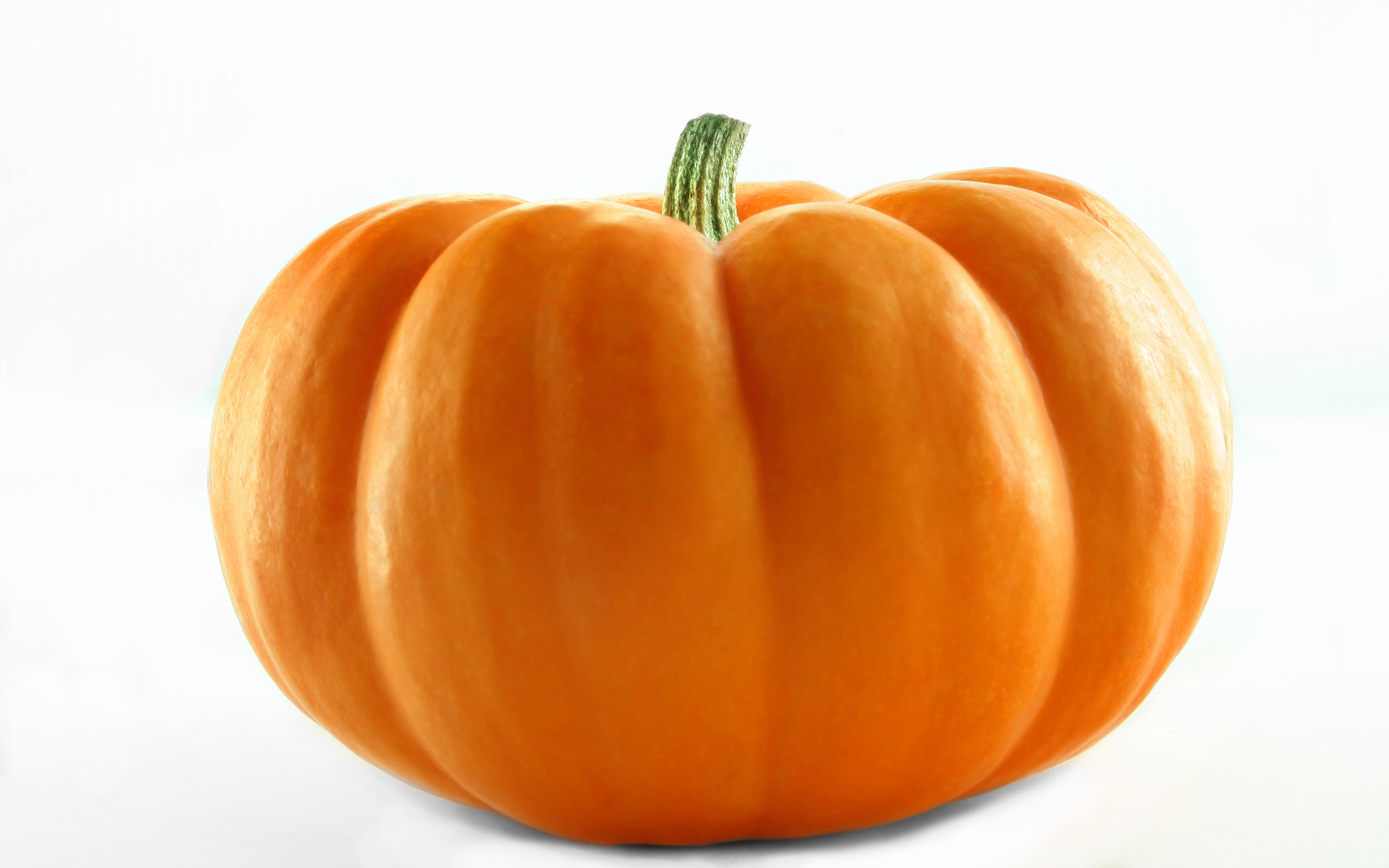
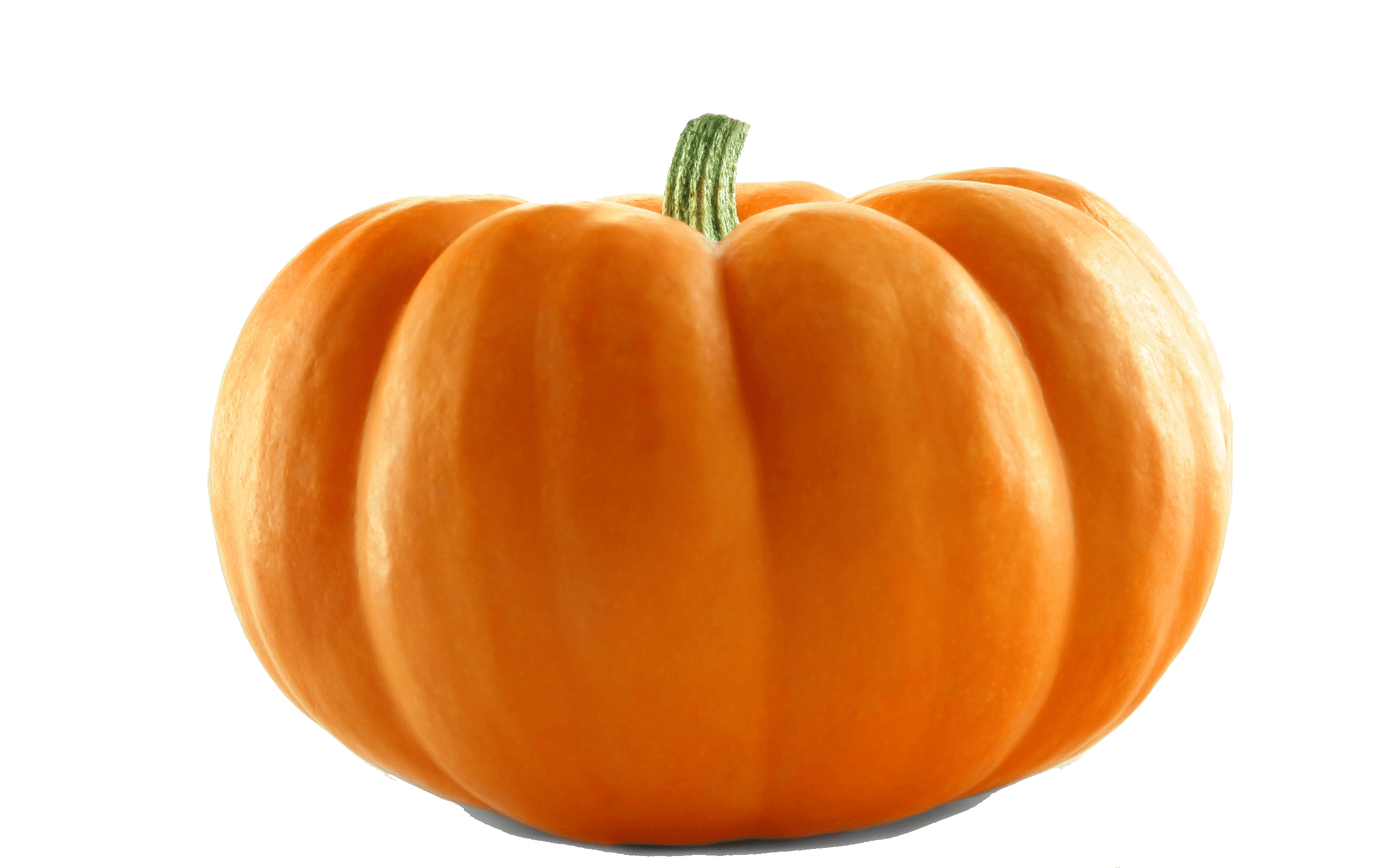
add: landing_page, new images

Changed region(s): [[0.375, 0.875, 0.7812, 1.0], [0.25, 0.875, 0.375, 0.9688], [0.7812, 0.9688, 0.8125, 1.0]]

diff --git a/src/app/components/landing/landing.component.html b/src/app/components/landing/landing.component.html
@@ -1,3 +1,56 @@
-<p>
-  landing works!
-</p>
+<div class="main-block">
+  <div class="desc-title">
+    <div class="base-padding">
+    <h1>Pumpkin seeds</h1>
+    <p>A serving size of pumpkin seeds, which equals approximately 1/2 cup, contains an average of 8 g of protein.
+      Pumpkin seeds are good sources of protein and other nutrients. Combine them with granola, raisins and nuts in snacks and cereals, or use them instead of nuts in baked goods.
+
+      Pumpkin seeds don’t contribute as much protein as beans, meat or some dairy products, but because they contribute protein to the complex carbohydrates found in cereals, salads and breads, they are useful for building a balanced meal.
+
+      As a source of protein, pumpkin seeds compare favorably to other seeds and to nuts. To consume the 25 g to 28 g of protein found in the recommended 3g. serving of tuna or 1 cup of soybeans, you’d have to eat about 2 cups of dried pumpkin seeds.
+      That’s 613 calories, compared to the 110 calories of the tuna or the 298 calories of the soybeans. 1oz. of pumpkin seeds offers almost 30 percent of the recommended daily amount of zinc and 20 percent of the recommended amount of iron. They also contribute magnesium, fiber and omega-6 and omega-3 fatty acids.</p>
+    </div>
+    </div>
+  <div class="picture-row">
+    <img src="/src/assets/images/kisspng-pumpkin-seed-oil-health-field-pumpkin-pumpkin-seeds-png-transparent-images-png-all-5c07adf437de79.8974366815440071562288.png" alt="">
+    <ul>
+      <li><strong>Grey Volga</strong></li>
+      <li>Origin: Ukraine</li>
+      <li>Crop: 2013</li>
+      <li>sizes: +9mm, +10mm, +11mm, +12mm, +10-12mm</li>
+      <li>Color: White</li>
+      <li>High quality</li>
+      <li>Great taste</li>
+      <li>Low moisture, less than 1%</li>
+      <li>Packaging: 25 kg</li>
+    </ul>
+  </div>
+  <div class="picture-row">
+    <img src="/src/assets/images/kisspng-pumpkin-seed-pumpkin-seed-cucurbita-food-5aea863719fe85.8611251915253192231065.png" alt="">
+    <ul>
+      <li><strong>Shine Skin</strong></li>
+      <li>Origin: Ukraine</li>
+      <li>Crop: 2013</li>
+      <li>sizes : +9mm, +9-11mm, +9-12mm, +10mm, +11mm, +12mm</li>
+      <li>Color: White</li>
+      <li>High quality</li>
+      <li>Great taste</li>
+      <li>Low moisture ,less than 1%</li>
+      <li>Packaging: 25 kg</li>
+    </ul>
+  </div>
+  <div class="picture-row">
+    <img src="/src/assets/images/kisspng-pumpkin-seed-soup-joumou-calabaza-pumpkin-seeds-5a7cbf7093d962.2044578315181249126056.png" alt="">
+    <ul>
+      <li><strong>Lady nail</strong></li>
+      <li>Origin: Ukraine</li>
+      <li>Crop: 2013</li>
+      <li>sizes : +7mm</li>
+      <li>Color: Yellow</li>
+      <li>High quality</li>
+      <li>Great taste</li>
+      <li>Low moisture ,less than 2%</li>
+      <li>Packaging: 30 kg</li>
+    </ul>
+  </div>
+</div>

diff --git a/src/app/components/landing/landing.component.scss b/src/app/components/landing/landing.component.scss
@@ -1,0 +1,53 @@
+
+ul{
+  list-style: none;
+}
+li{
+  padding: 5px;
+  font-size: 20px;
+}
+html::-webkit-scrollbar {
+  width: 0;
+}
+.main-block{
+  overflow: hidden;
+  .desc-title{
+    background-image: url("/src/assets/images/157053-OUGPE8-56.jpg");
+    background-size: cover;
+    height: 100vh;
+    .base-padding{
+      padding: 24px;
+      font-size: 20px;
+    }
+  }
+  .picture-row{
+    display: flex;
+    align-items: center;
+    height: 100vh;
+    width: auto;
+
+
+    img{
+      height: 100%;
+    }
+  }
+}
+
+@media  screen and (max-width: 768px) {
+  .main-block{
+    .desc-title{
+      height: auto;
+      .base-padding{
+      }
+    }
+    .picture-row{
+      flex-wrap: wrap;
+      img{
+        height: auto;
+        width: 100%;
+      }
+    }
+  }
+
+
+}

diff --git a/src/app/components/big-block/big-block.component.scss b/src/app/components/big-block/big-block.component.scss
@@ -1,5 +1,7 @@
 .big-block {
-  background: url("http://img.lenagold.ru/p/pods/pods21.png") no-repeat center;
+  background-image: url(/src/assets/images/Тыква.png);
+  background-repeat: no-repeat;
+  background-position: center;
   background-size: contain;
   width: 100%;
 }
